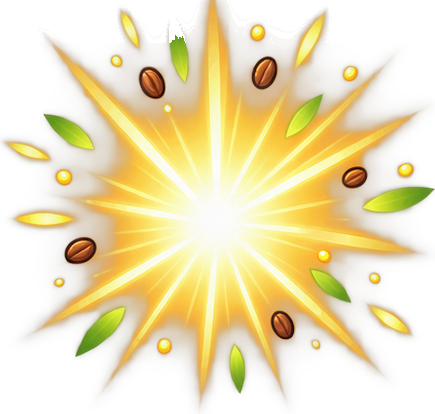
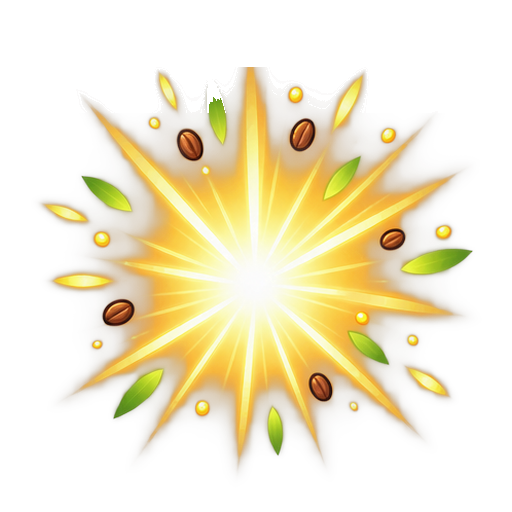
chore(client): drop unused and duplicate assets and styles
The client kept copies it never loads: kiosk cups, a stray coin and
payment logos in the assets root, a second silver coin under sprites,
two crate images living in both sprites and ui, animation-board art the
screens do not use, and a font weight nothing declares. sprites/ now
holds only the plant scene and ui/ the interface; the crate glow the
design's popup actually shows moved into ui/ in place of the unused one.

Styles left behind by the rewritten screens (generic grids, tags, link
boxes, the old bottom sheet and planting panel) are gone as well.

diff --git a/frontend/client/src/theme.css b/frontend/client/src/theme.css
@@ -108,8 +108,6 @@ button { font: inherit; color: inherit; background: none; border: 0; padding: 0;
 .h1 { font-size: 22px; font-weight: 900; letter-spacing: -.01em; margin: 0 0 6px }
 .h2 { font-size: 17px; font-weight: 800; margin: 0 0 8px }
 .row { display: flex; align-items: center; gap: 10px }
-.row-between { display: flex; align-items: center; justify-content: space-between; gap: 10px }
-.grid2 { display: grid; grid-template-columns: 1fr 1fr; gap: 10px }
 /* Заголовок блока й сам блок — з макета: 12px/700, letter-spacing .14em,
    відступи дає gap контейнера, а не маргіни. */
 .section { display: flex; flex-direction: column; gap: 10px }
@@ -124,7 +122,6 @@ button { font: inherit; color: inherit; background: none; border: 0; padding: 0;
 .btn:active { transform: scale(.99) }
 .btn[disabled] { opacity: .5 }
 
-.tag { display: inline-flex; align-items: center; gap: 4px; font-size: 11px; font-weight: 700; padding: 3px 8px; border-radius: var(--radius-pill); background: var(--panel2); color: var(--muted) }
 /* Кольори рідкості — з макета (Common/Uncommon/Rare/Epic). */
 :root { --tier-common: 168, 178, 192; --tier-uncommon: 63, 191, 111; --tier-rare: 90, 169, 255; --tier-epic: 176, 124, 255 }
 .tag-common { color: rgb(var(--tier-common)) } .tag-uncommon { color: rgb(var(--tier-uncommon)) }
@@ -161,16 +158,9 @@ button { font: inherit; color: inherit; background: none; border: 0; padding: 0;
   display: flex; align-items: center; justify-content: center;
 }
 
-.link-box {
-  flex: 1; min-width: 0; height: 46px; margin: 0; padding: 0 13px;
-  display: flex; align-items: center; font-size: 13px; font-weight: 700;
-  white-space: nowrap; overflow: hidden; text-overflow: ellipsis;
-}
-.btn-icon { flex: none; width: 46px; height: 46px; padding: 0; color: var(--muted) }
 
 .btn-danger { color: #FF6B78; border-color: rgba(255, 107, 120, .45) }
 
-.panel.on { border-color: var(--accent) }
 .item-stub {
   display: flex; align-items: center; justify-content: center; text-align: center;
   padding: 4px; border-radius: 12px; background: var(--panel2);

diff --git a/frontend/client/src/screens/Crate.jsx b/frontend/client/src/screens/Crate.jsx
@@ -16,7 +16,7 @@ export function CrateOpened({ result, nickname, onClose, onStock, onSell }) {
   const [first, ...rest] = item.name.split("-");
   return (
     <ResultPopup
-      decor={<img className="crate-glow" src="/assets/sprites/crate_parts/crate_glow.png" alt="" />}
+      decor={<img className="crate-glow" src="/assets/ui/crate_glow.png" alt="" />}
       title="Скриньку відкрито"
       offset={88}
       side={16}
